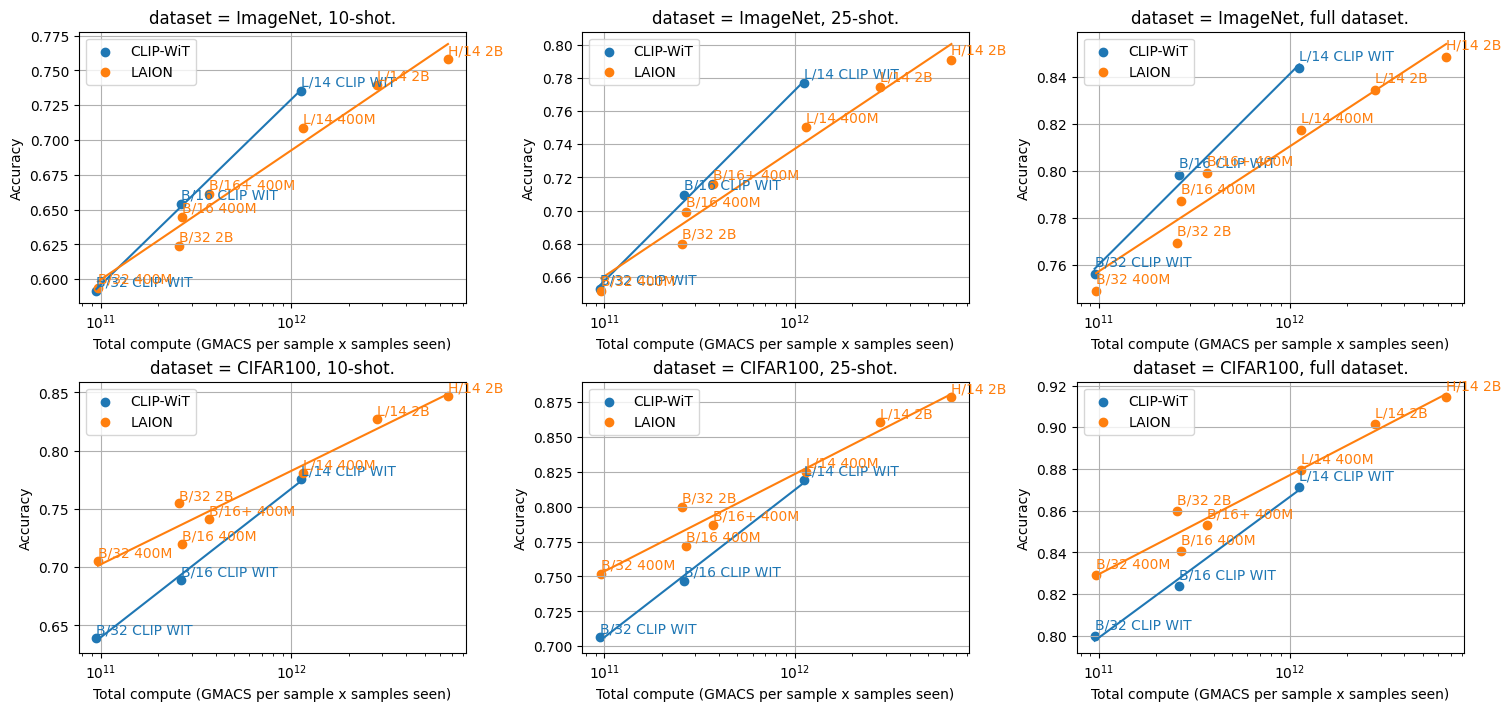
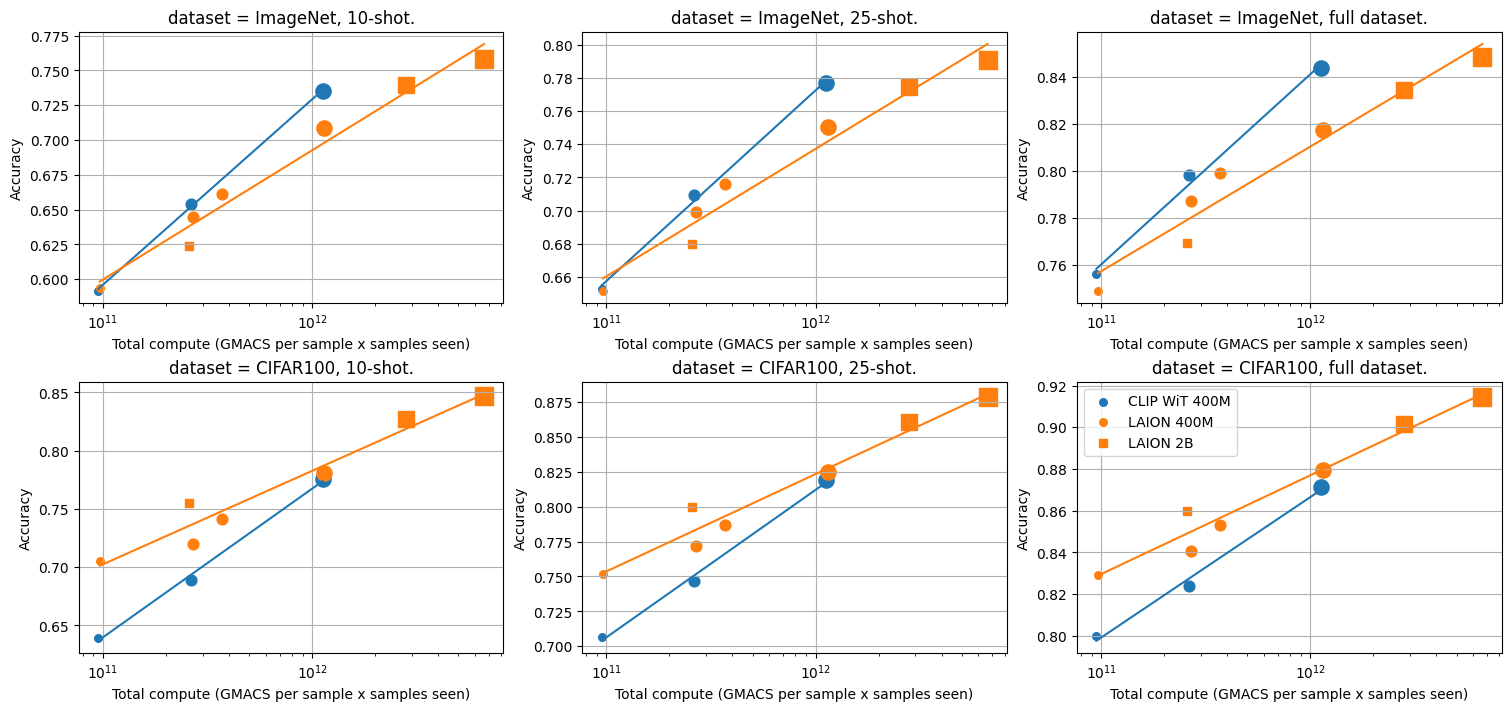
minor plot changes

diff --git a/probe_benchmark/scaling_plot.py b/probe_benchmark/scaling_plot.py
@@ -1,3 +1,4 @@
+from operator import truediv
 from tokenize import group
 import numpy as np
 import pandas as pd
@@ -6,6 +7,8 @@ import matplotlib.pyplot as plt
 
 from matplotlib.gridspec import GridSpec
 import matplotlib.pyplot as plt
+
+from matplotlib.lines import Line2D
 
 import statsmodels.api as sm
 
@@ -27,8 +30,14 @@ if __name__ == '__main__':
     fig = plt.figure(constrained_layout=True, figsize=(5*3, 3.5*2))
     gs = GridSpec(2, 3, figure=fig)
 
+
+
     for i1 in range(2):
         for i2 in range(3):
+
+            clip_legend = False
+            laion2b_legend = False
+            laion400m_legend = False
             ax = fig.add_subplot(gs[i1, i2])
 
             pdf = df[df.dataset == datasets[i1]]
@@ -45,16 +54,41 @@ if __name__ == '__main__':
                     txt.append(subgroupdf['model_short'].values[0])
 
                 xs, ys = np.array(xs), np.array(ys)
-                ax.scatter(xs, ys, label=name.replace('_e32', ''), color=f'C{j}')
                 for i in range(len(xs)):
-                    ax.annotate(txt[i], (xs[i], ys[i] + 0.0035), color=f'C{j}')
+                    print(txt[i])
+                    color = 'C0' if 'CLIP' in txt[i] else 'C1'
+                    marker = 's' if '2B' in txt[i] else 'o'
+                    if 'B/32' in txt[i]:
+                        sz = 1
+                    elif 'B/16' in txt[i]:
+                        sz = 2
+                    elif 'B/16+' in txt[i]:
+                        sz = 3
+                    elif 'L/14' in txt[i]:
+                        sz = 4
+                    elif 'H/14'in txt[i]:
+                        sz = 5
 
+                    label = None
+                    if '2B' in txt[i] and not laion2b_legend:
+                        label = 'LAION 2B'
+                        laion2b_legend = True
+                    elif '400M' in txt[i] and not laion400m_legend:
+                        label = 'LAION 400M'
+                        laion400m_legend = True
+                    elif 'CLIP' in txt[i] and not clip_legend:
+                        label = 'CLIP WiT 400M'
+                        clip_legend = True
+                    
+                    
+                    ax.scatter(xs[i], ys[i], marker=marker, color=color, s = 30 * sz, label=label)
+                        
                 lin_params, _ = linear_fit(np.log(xs), ys)
                 xs = np.log(np.array([xs.min(), xs.max()]))
                 ys = lin_params[1] * xs + lin_params[0]
                 ax.plot(np.exp(xs), ys, color=f'C{j}')
 
-            ax.legend()
+
             ax.set_xscale('log')
             ax.set_xlabel('Total compute (GMACS per sample x samples seen)')
             ax.set_ylabel('Accuracy')
@@ -65,6 +99,7 @@ if __name__ == '__main__':
                 ax.set_title(f'dataset = {dset}, {ks[i2]}-shot.')
             ax.grid()
 
+    ax.legend()
     plt.savefig(
         f"probe_benchmark/scaling_plot.png", bbox_inches="tight"
     )
